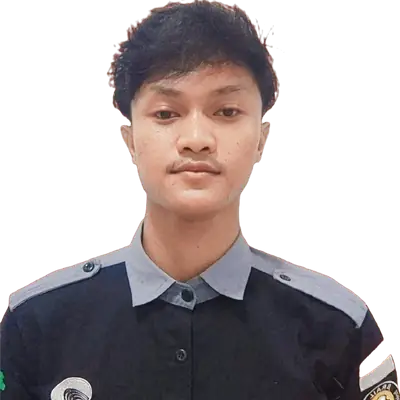
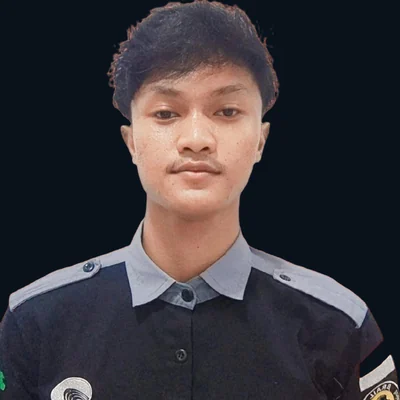
Give the portrait a dark background and refresh the bio so search snippets stop showing the old white photo and student line.

diff --git a/app/layout.tsx b/app/layout.tsx
@@ -36,7 +36,7 @@ export const metadata: Metadata = {
     template: "%s",
   },
   description:
-    "Mahasiswa Teknik Robotika, Politeknik Negeri Batam. Portofolio Simalas dan Afis — Laravel, Flutter, ESP32.",
+    "Portofolio Rayendra Aldo Putra. Mahasiswa Teknik Robotika, Politeknik Negeri Batam. Simalas: sidik jari, Laravel, Flutter, ESP32 — local-first, lalu sync ke server.",
   keywords: [
     "Rayendra Aldo Putra",
     "raldoputradev",
@@ -67,7 +67,7 @@ export const metadata: Metadata = {
     card: "summary_large_image",
     title: `${site.name} — Portofolio`,
     description:
-      "Mahasiswa Teknik Robotika, Politeknik Negeri Batam. Portofolio Simalas dan Afis.",
+      "Portofolio Rayendra Aldo Putra. Mahasiswa Teknik Robotika, Politeknik Negeri Batam. Simalas: sidik jari, Laravel, Flutter, ESP32.",
     images: ["/og-share.jpg"],
   },
   icons: { icon: "/favicon.svg" },
@@ -88,7 +88,7 @@ export default function RootLayout({ children }: { children: ReactNode }) {
         <link
           rel="preload"
           as="image"
-          href="/rayendra-aldo-putra-hero.webp"
+          href="/rayendra-aldo-putra-hero.webp?v=2"
           type="image/webp"
           media="(min-width: 1024px)"
         />

diff --git a/lib/i18n.ts b/lib/i18n.ts
@@ -112,7 +112,7 @@ const id: Copy = {
   meta: {
     title: "Rayendra Aldo Putra — Portofolio | Politeknik Negeri Batam",
     description:
-      "Mahasiswa Teknik Robotika, Politeknik Negeri Batam. Portofolio Simalas dan Afis — Laravel, Flutter, ESP32.",
+      "Portofolio Rayendra Aldo Putra. Mahasiswa Teknik Robotika, Politeknik Negeri Batam. Simalas: sidik jari, Laravel, Flutter, ESP32 — local-first, lalu sync ke server.",
   },
   nav: {
     home: "Beranda",
@@ -368,7 +368,7 @@ const en: Copy = {
   meta: {
     title: "Rayendra Aldo Putra — Portfolio | Politeknik Negeri Batam",
     description:
-      "Robotics student at Politeknik Negeri Batam. Portfolio: Simalas and Afis — Laravel, Flutter, ESP32.",
+      "Portfolio of Rayendra Aldo Putra. Robotics student at Politeknik Negeri Batam. Simalas: fingerprint devices, Laravel, Flutter, ESP32 — local-first, then sync to the server.",
   },
   nav: {
     home: "Home",

diff --git a/components/PersonJsonLd.tsx b/components/PersonJsonLd.tsx
@@ -9,7 +9,9 @@ export function PersonJsonLd() {
     url: "https://raldoputradev.github.io",
     email: site.email,
     jobTitle: "Mahasiswa Teknik Robotika",
-    image: "https://raldoputradev.github.io/rayendra-aldo-putra.png",
+    image: "https://raldoputradev.github.io/rayendra-aldo-putra.png?v=2",
+    description:
+      "Mahasiswa Teknik Robotika di Politeknik Negeri Batam. Merancang rantai utuh: mesin sidik jari, API Laravel, web admin, dan aplikasi Flutter. Local-first, lalu sync ke server.",
     affiliation: {
       "@type": "CollegeOrUniversity",
       name: site.campus,

diff --git a/app/globals.css b/app/globals.css
@@ -409,15 +409,7 @@ body {
 }
 
 .portrait-stage {
-  background-color: var(--bg-raise);
-  background-image:
-    linear-gradient(to right, var(--grid) 1px, transparent 1px),
-    linear-gradient(to bottom, var(--grid) 1px, transparent 1px),
-    linear-gradient(180deg, color-mix(in srgb, var(--bg) 55%, transparent), transparent 55%);
-  background-size:
-    26px 26px,
-    26px 26px,
-    100% 100%;
+  background-color: #0a121c;
 }
 
 .theme-toggle {

diff --git a/components/PortraitCard.tsx b/components/PortraitCard.tsx
@@ -10,7 +10,7 @@ export function PortraitCard({ locale }: { locale: Locale }) {
       <div className="portrait-shell w-full">
         <div className="portrait-stage relative aspect-square overflow-hidden rounded-full">
           <img
-            src="/rayendra-aldo-putra-hero.webp"
+            src="/rayendra-aldo-putra-hero.webp?v=2"
             alt={site.name}
             width={400}
             height={400}

diff --git a/README.md b/README.md
@@ -1,6 +1,6 @@
 # Portofolio — Rayendra Aldo Putra
 
-Situs portofolio statis untuk magang 2027. Bilingual **ID / EN**. Tidak berisi data laboratorium, API key, atau dummy production.
+Situs portofolio Rayendra Aldo Putra, mahasiswa Teknik Robotika di Politeknik Negeri Batam. Simalas: sidik jari, Laravel, Flutter, ESP32 — local-first, lalu sync ke server. Bilingual **ID / EN**. Tidak berisi data laboratorium, API key, atau dummy production.
 
 Live: [https://raldoputradev.github.io](https://raldoputradev.github.io)
 
@@ -62,9 +62,7 @@ AMR / ROS2 tidak ditampilkan sampai ada perangkat kampus. Afis Fingerprint Analy
 
 ## Foto dan tema
 
-`public/rayendra-aldo-putra.png` adalah foto dengan latar merah yang sudah dipotong jadi transparan,
-supaya menyatu dengan kartu di mode terang maupun gelap. File aslinya disimpan di
-`assets/portrait-original.png` (tidak ikut disajikan ke publik).
+Foto profil (`public/rayendra-aldo-putra.png` dan `-hero.webp`) memakai latar gelap `#0a121c`, bukan putih atau transparan, supaya lingkaran foto tidak berubah jadi putih di mode terang.
 
 Mode terang/gelap diatur lewat atribut `data-theme` pada `<html>`. Pilihan disimpan di `localStorage`,
 dan kunjungan pertama mengikuti setelan sistem. Semua warna berasal dari variabel CSS di
